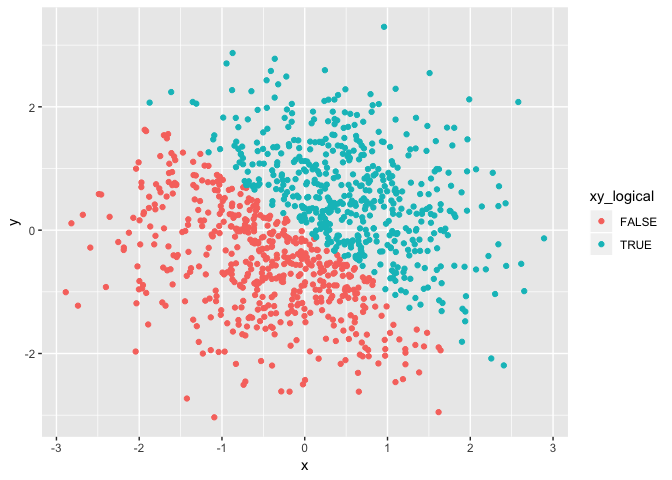
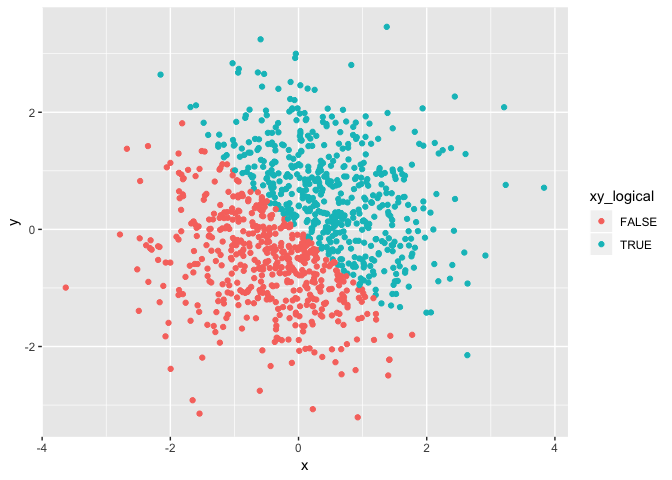
final modification

diff --git a/p8105_hw1_rj2543.md b/p8105_hw1_rj2543.md
@@ -7,6 +7,7 @@ Problem 1
 =========
 
 This problem focuses on variable types and coercion.
+----------------------------------------------------
 
 First, create a data frame comprised of:
 
@@ -14,21 +15,6 @@ First, create a data frame comprised of:
 -   A logical vector indicating whether elements of the sample are greater than 2
 -   A (length-10) character vector
 -   A (length-10) factor vector
-
-``` r
-library(tidyverse)
-```
-
-    ## ─ Attaching packages ───────────────────── tidyverse 1.2.1 ─
-
-    ## ✔ ggplot2 3.0.0     ✔ purrr   0.2.5
-    ## ✔ tibble  1.4.2     ✔ dplyr   0.7.6
-    ## ✔ tidyr   0.8.1     ✔ stringr 1.3.1
-    ## ✔ readr   1.1.1     ✔ forcats 0.3.0
-
-    ## ─ Conflicts ────────────────────── tidyverse_conflicts() ─
-    ## ✖ dplyr::filter() masks stats::filter()
-    ## ✖ dplyr::lag()    masks stats::lag()
 
 ``` r
 problem1_df = tibble(
@@ -45,13 +31,13 @@ Try to take the mean of each variable in the dataframe.
 mean(problem1_df$sample_numeric)
 ```
 
-    ## [1] 2.327781
+    ## [1] 1.511714
 
 ``` r
 mean(problem1_df$sample_logical)
 ```
 
-    ## [1] 0.6
+    ## [1] 0.3
 
 ``` r
 mean(problem1_df$sample_char)
@@ -83,9 +69,9 @@ as.numeric(problem1_df$sample_factor)
 
 In this case, what happens?
 
-    ##  [1] 1 0 1 0 1 0 1 0 1 1
+    ##  [1] 0 0 0 1 1 0 1 0 0 0
 
-    ## Warning: 强制改变过程中产生了NA
+    ## Warning: NAs introduced by coercion
 
     ##  [1] NA NA NA NA NA NA NA NA NA NA
 
@@ -103,7 +89,7 @@ as.numeric(as.factor(problem1_df$sample_char))
 as.numeric(as.character(problem1_df$sample_factor))
 ```
 
-    ## Warning: 强制改变过程中产生了NA
+    ## Warning: NAs introduced by coercion
 
     ##  [1] NA NA NA NA NA NA NA NA NA NA
 
@@ -111,6 +97,7 @@ Problem 2
 =========
 
 This problem focuses on plotting and the use of inline R code.
+--------------------------------------------------------------
 
 First, create a data frame comprised of:
 
@@ -124,7 +111,7 @@ First, create a data frame comprised of:
 problem2_df = tibble(
   x = rnorm(1000),
   y = rnorm(1000),
-  xy_logical = ((x+y) > 0),
+  xy_logical = c((x+y) > 0),
   xy_lognumeric = as.numeric(xy_logical),
   xy_logfactor = as.factor(xy_logical)
 )
@@ -133,8 +120,8 @@ problem2_df = tibble(
 The short description includes:
 
 -   the size of the dataset is **5**
--   the mean of x is **0.040419** and the median of x is **0.0927064**
--   the proportion of cases for which the logical vector is TRUE is **0.5**
+-   the mean of x is **0.0223265** and the median of x is **0.0292307**
+-   the proportion of cases for which the logical vector is TRUE is **0.512**
 
 Second, make a scatterplot of y vs x; color points using the logical variable. Make a second and third scatterplot that color points using the numeric and factor variables, respectively, and comment on the color scales.
 
@@ -164,4 +151,4 @@ ggsave('scatterplot of y vs x colored by logical.pdf', plot = ggplot(problem2_df
 
     ## Saving 7 x 5 in image
 
-That's all.
+**That's all. Thank you for watching! :)**
